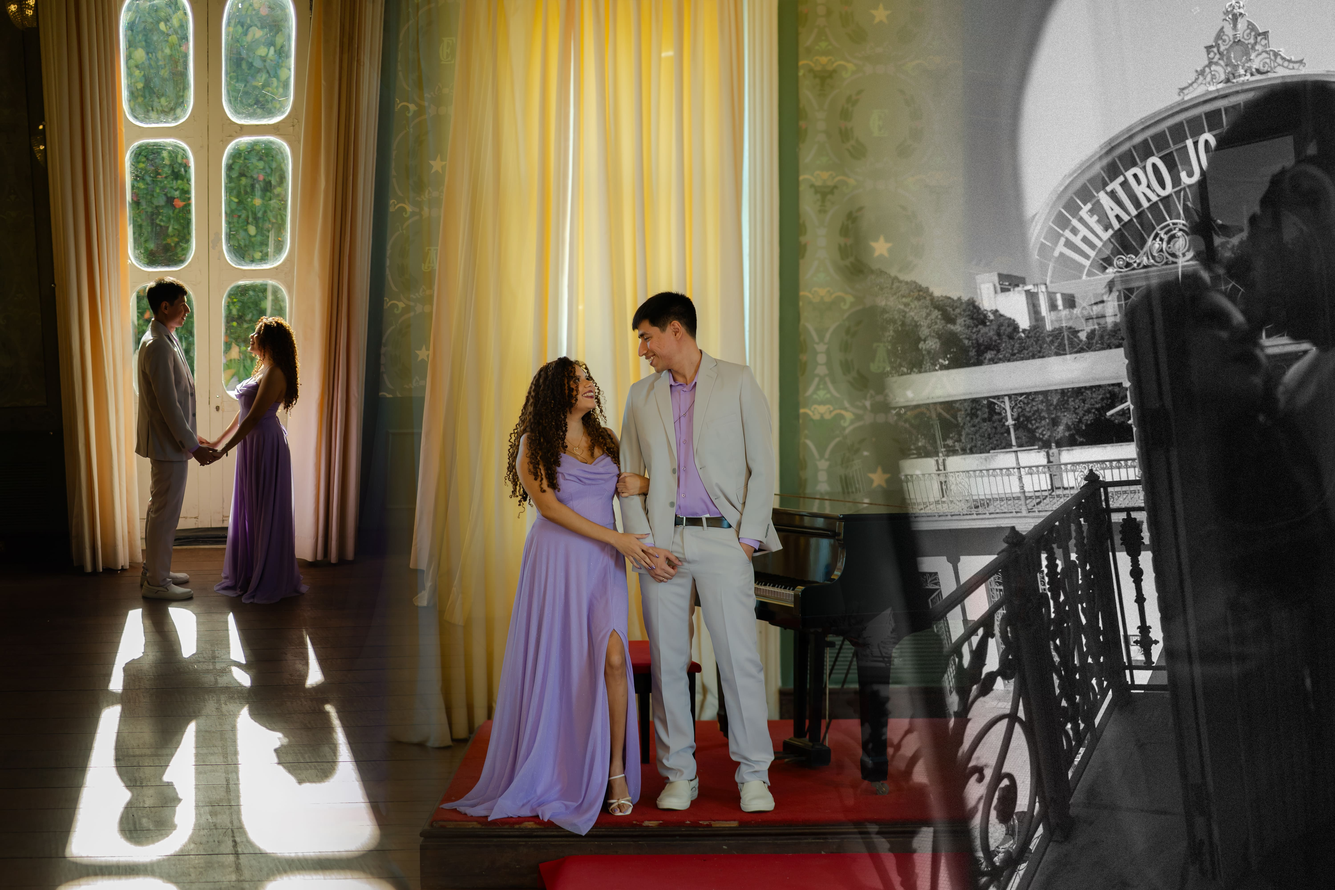
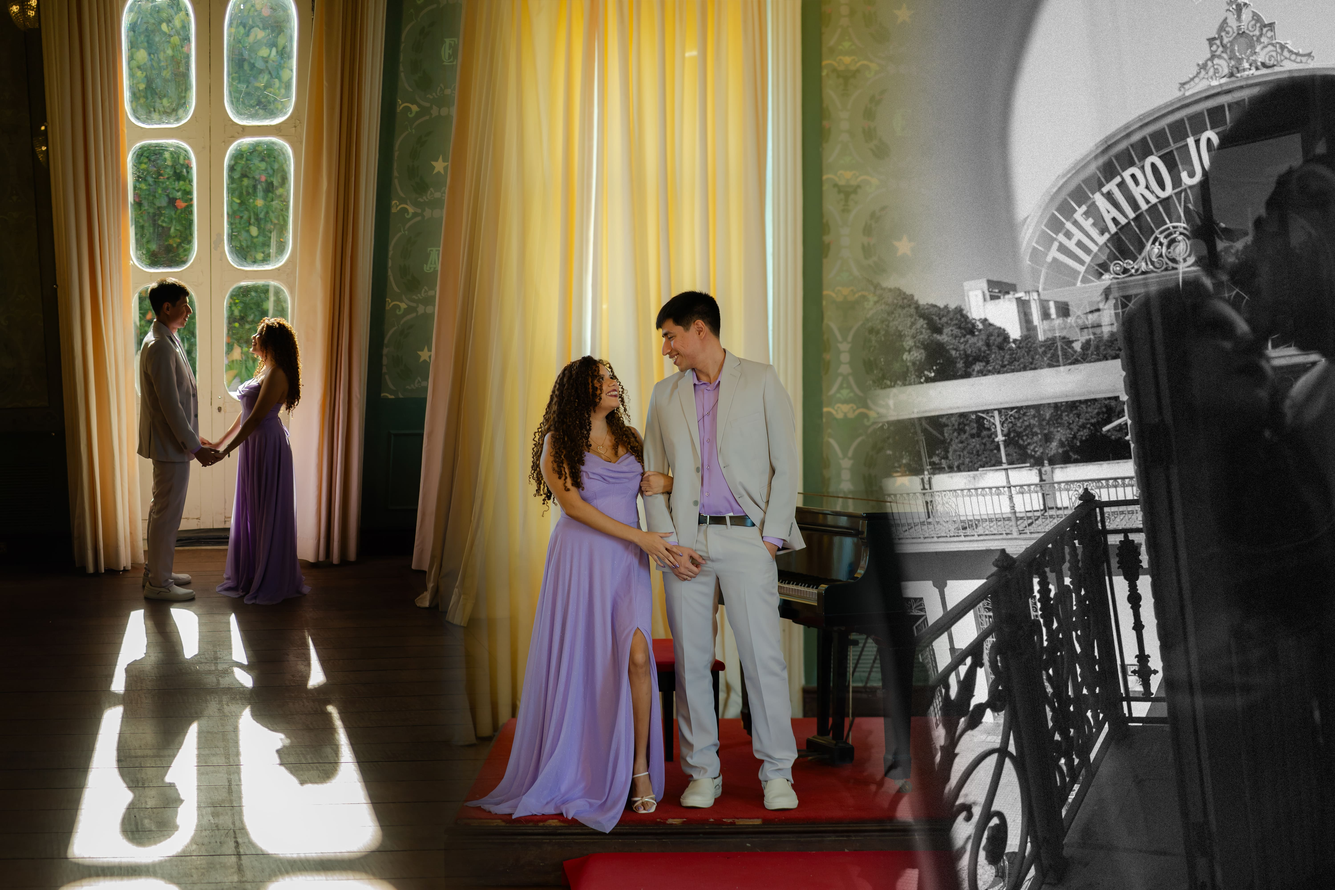
feat: update README for version 5.1, add atmospheric effects details, and enhance release notes

diff --git a/css/photos.css b/css/photos.css
@@ -226,7 +226,7 @@ body.public-modal-open {
       rgba(21, 10, 28, 0.42),
       rgba(var(--color-primary-rgb), 0.56)
     ),
-    url("../assets/images/photos/pre-wedding-01.jpg") center / cover;
+    url("../assets/images/photos/photos-hero.jpg") center / cover;
 }
 
 .photos-hero-content {

diff --git a/README.md b/README.md
@@ -2,7 +2,7 @@
 
 Site de casamento personalizado para centralizar informações do evento, RSVP, lista de presentes e administração dos noivos.
 
-Versão atual: **5.0**.
+Versão atual: **5.1 (em desenvolvimento)**.
 
 ## Desenvolvimento
 
@@ -63,6 +63,10 @@ GitHub: [messiasfl10](https://github.com/messiasfl10/)
   estratégicos, tom roxo principal atualizado, tipografia romântica nos heros,
   atalhos na Home, menu público em painel lateral reutilizável e melhorias
   responsivas nas páginas públicas.
+- Efeitos atmosféricos compartilhados nos heros da Home, Nossa História,
+  Pré-Wedding, RSVP, Manual dos Convidados, Programação, Recados e Fornecedores,
+  com névoa suave e pontos de luz ascendentes. A Home também dispara efeitos
+  decorativos em lilás e roxo quando suas seções entram na tela.
 - Filtros, ordenação, contadores de resultado e limpeza de filtros no admin.
 - Alertas compactos no menu administrativo para recados pendentes, presentes
   ou cotas com pagamento informado, tarefas atrasadas e parcelas financeiras
@@ -130,16 +134,16 @@ GitHub: [messiasfl10](https://github.com/messiasfl10/)
 
 ### Públicas
 
-- `index.html`: página inicial, informações do casamento, contagem regressiva, metadados, identidade visual do casal, atalhos rápidos e seção do Manual dos Convidados.
-- `our-story.html`: linha do tempo da história do casal, notas pessoais e seção da jornada.
-- `guest-guide.html`: Manual dos Convidados público, com orientações de traje e combinados para o casamento.
+- `index.html`: página inicial, informações do casamento, contagem regressiva, metadados, identidade visual do casal, efeitos atmosféricos e efeitos de entrada nas seções, atalhos rápidos e seção do Manual dos Convidados.
+- `our-story.html`: linha do tempo da história do casal, notas pessoais, seção da jornada e efeito atmosférico no hero.
+- `guest-guide.html`: Manual dos Convidados público, com orientações de traje, combinados para o casamento e efeito atmosférico no hero.
 - `login.html`: entrada por código de convite.
-- `rsvp.html`: confirmação de presença.
+- `rsvp.html`: confirmação de presença, com efeito atmosférico no hero.
 - `gifts.html`: lista de presentes, filtros públicos, cards compactos e fluxo de reserva/pagamento.
-- `photos.html`: galeria do Pré-Wedding.
-- `messages.html`: Mural de Recados.
-- `vendors.html`: fornecedores do casamento.
-- `schedule.html`: programação do casamento para convidados logados.
+- `photos.html`: galeria do Pré-Wedding, com efeito atmosférico no hero.
+- `messages.html`: Mural de Recados, com efeito atmosférico no hero.
+- `vendors.html`: fornecedores do casamento, com efeito atmosférico no hero.
+- `schedule.html`: programação do casamento para convidados logados, com efeito atmosférico no hero.
 
 ### Administrativas
 
@@ -195,6 +199,12 @@ alertas compactos do menu e padronização dos cabeçalhos das páginas.
 - `js/home-photos.js`: renderização da prévia do Pré-Wedding na página inicial.
 - `js/home-messages.js`: renderização da prévia do Mural de Recados na página
   inicial.
+- `js/home-scroll-fireworks.js`: efeitos decorativos em lilás e roxo acionados
+  quando as seções da página inicial entram na tela.
+- `js/hero-atmosphere.js`: criação das camadas de névoa e pontos de luz nos
+  heros que usam o efeito compartilhado.
+- `css/hero-atmosphere.css`: estilos e animações compartilhados de névoa e
+  pontos ascendentes, com suporte à preferência por movimento reduzido.
 - `js/photos.js`: renderização da galeria completa e do lightbox da página de Pré-Wedding.
 - `js/story.js`: interações da página Nossa História, incluindo navbar,
   carrosséis, timeline e animações.
@@ -570,6 +580,9 @@ PixPayment.getQrCodeUrl(payload);
 
 ## Documentação Complementar
 
+- `docs/releases/release_v5.1.md`: notas da versão 5.1, atualmente em
+  desenvolvimento, com os efeitos atmosféricos compartilhados nos heros e os
+  efeitos decorativos de entrada na Home.
 - `docs/releases/release_v5.0.md`: notas da versão 5.0, com o Manual dos
   Convidados, a confirmação administrativa da forma de presentear, a
   classificação financeira dos presentes e o tutorial da Lista de Presentes.

diff --git a/docs/releases/release_v5.1.md b/docs/releases/release_v5.1.md
@@ -1,0 +1,39 @@
+# Site de Casamento - L & M - v5.1 (em andamento)
+
+Esta release está em desenvolvimento. Este documento registra as mudanças já
+implementadas e será atualizado conforme novas alterações forem concluídas.
+
+## Implementado Até Agora
+
+### Efeitos Visuais Nos Heros
+
+- Criado um efeito atmosférico reutilizável com névoa suave e pontos de luz que
+  sobem em velocidades variadas.
+- Aplicado aos heros da página inicial, Nossa História, Pré-Wedding, RSVP,
+  Manual dos Convidados, Programação, Mural de Recados e Fornecedores.
+- Centralizadas as regras visuais em `css/hero-atmosphere.css` e a criação das
+  camadas decorativas em `js/hero-atmosphere.js`, evitando manter implementações
+  separadas em cada página.
+- A animação respeita a preferência do sistema por movimento reduzido.
+
+### Efeitos De Entrada Na Página Inicial
+
+- Adicionados estouros decorativos em tons de lilás e roxo quando as seções da
+  página inicial entram na área visível.
+- Cada entrada apresenta três estouros em sequência, distribuídos em diferentes
+  alturas da tela. O efeito não bloqueia cliques nem a rolagem.
+- Para quem prefere movimento reduzido, os estouros aparecem sem animação.
+
+## Banco De Dados E Compatibilidade
+
+- As alterações registradas nesta versão são visuais e executadas no frontend.
+- Não exigem migrations, mudanças de tabelas ou ajustes de configuração do
+  Supabase.
+
+## Estado Da Release
+
+- A v5.1 permanece aberta para novas mudanças.
+- Atualizar este documento e o README conforme outras alterações da release
+  forem implementadas.
+- Registrar o fechamento e eventuais passos de publicação somente quando o
+  escopo da v5.1 estiver concluído.
